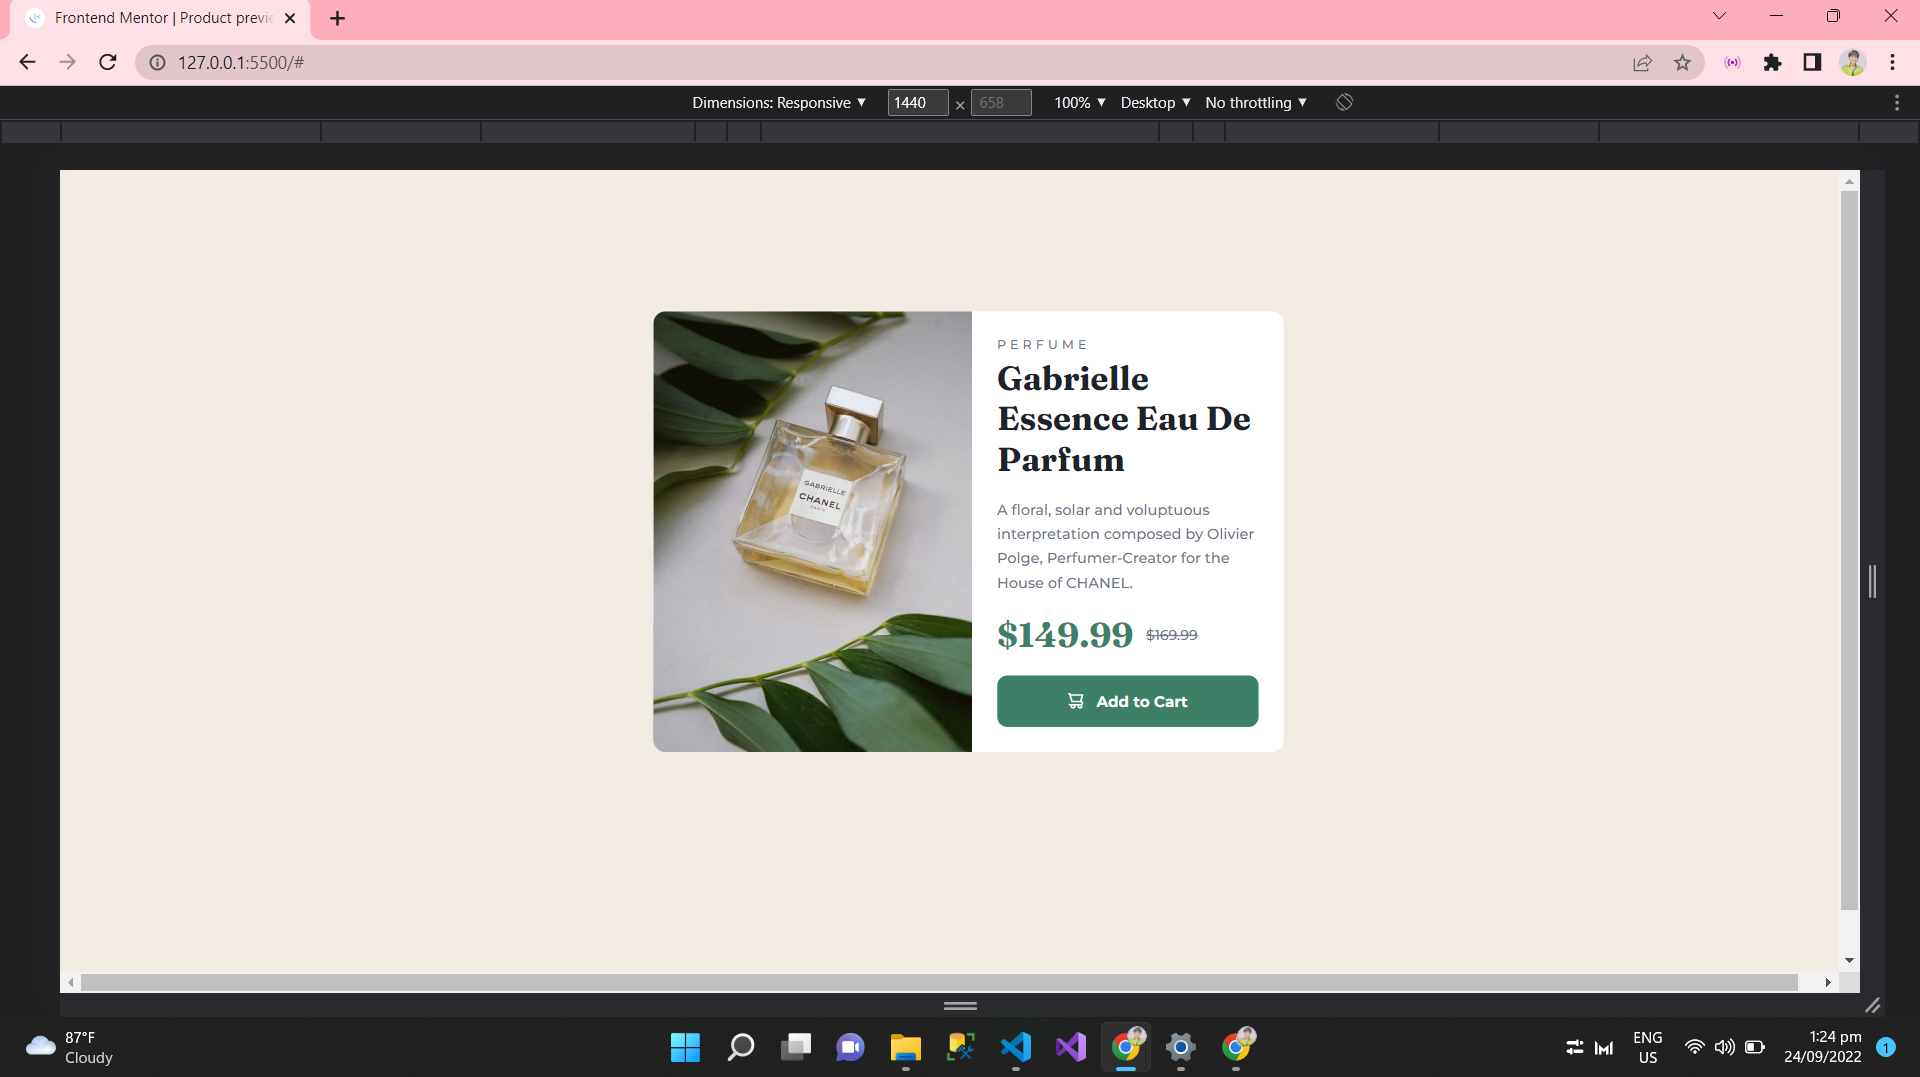
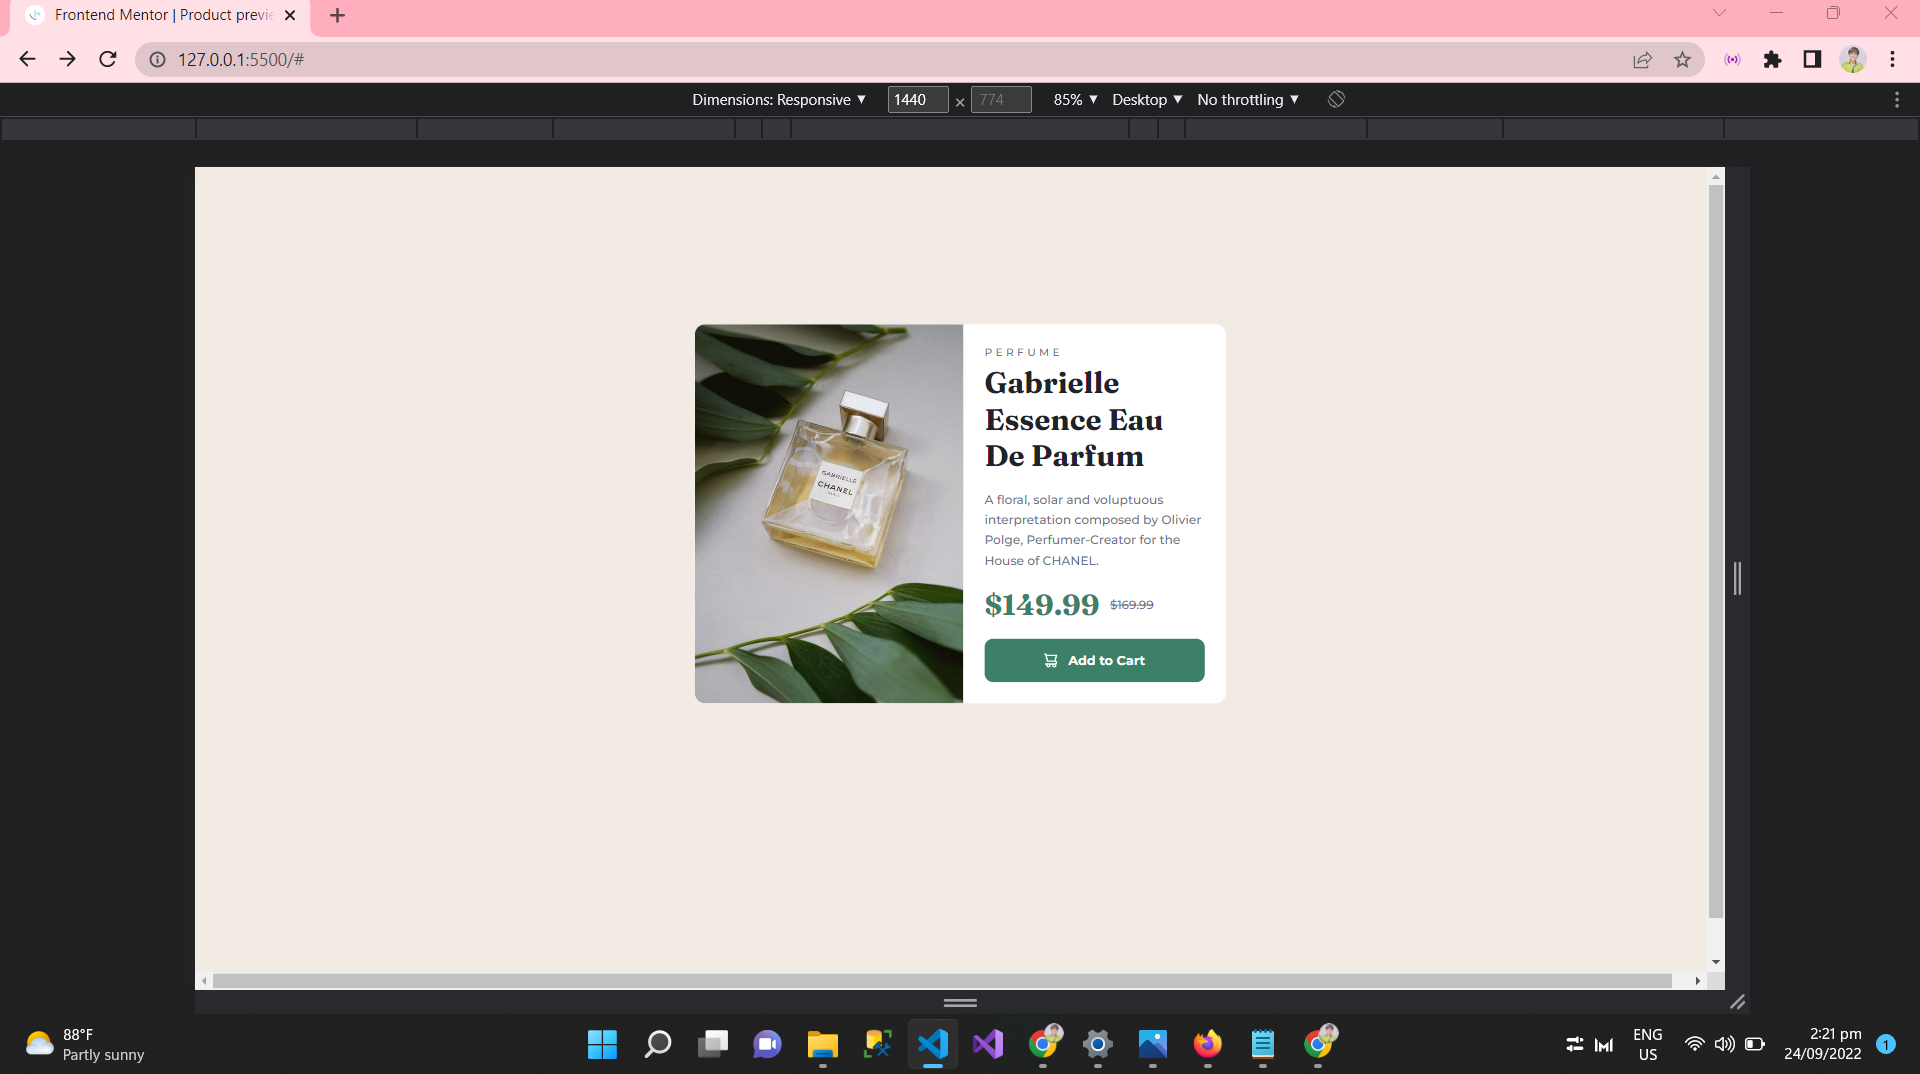
modified some little mistake

diff --git a/index.html b/index.html
@@ -42,7 +42,7 @@
       Challenge by
       <a href="https://www.frontendmentor.io?ref=challenge" target="_blank"
         >Frontend Mentor</a
-      >. Coded by <a href="#">Your Name Here</a>.
+      >. Coded by <a href="https://github.com/NARVS1999">JP Narvasa</a>.
     </div>
   </body>
 </html>

diff --git a/css/main-style.css b/css/main-style.css
@@ -180,6 +180,6 @@ body {
     }
     
     .product-name {
-        font-size: 26.5px;
+        font-size: 28px;
     }
 }
